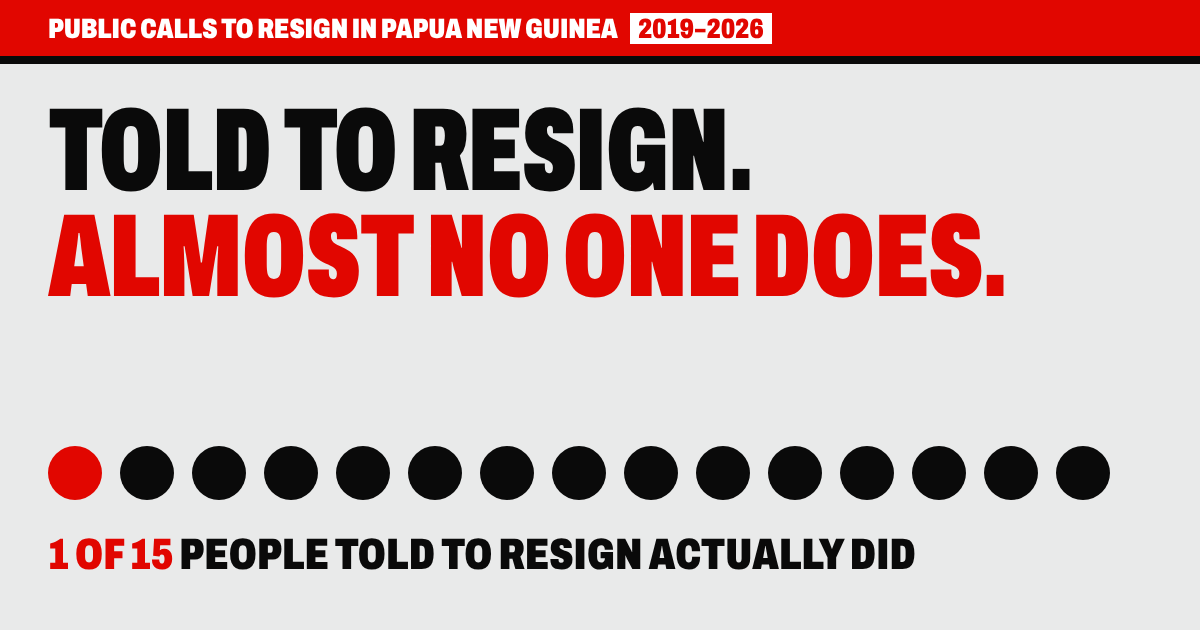
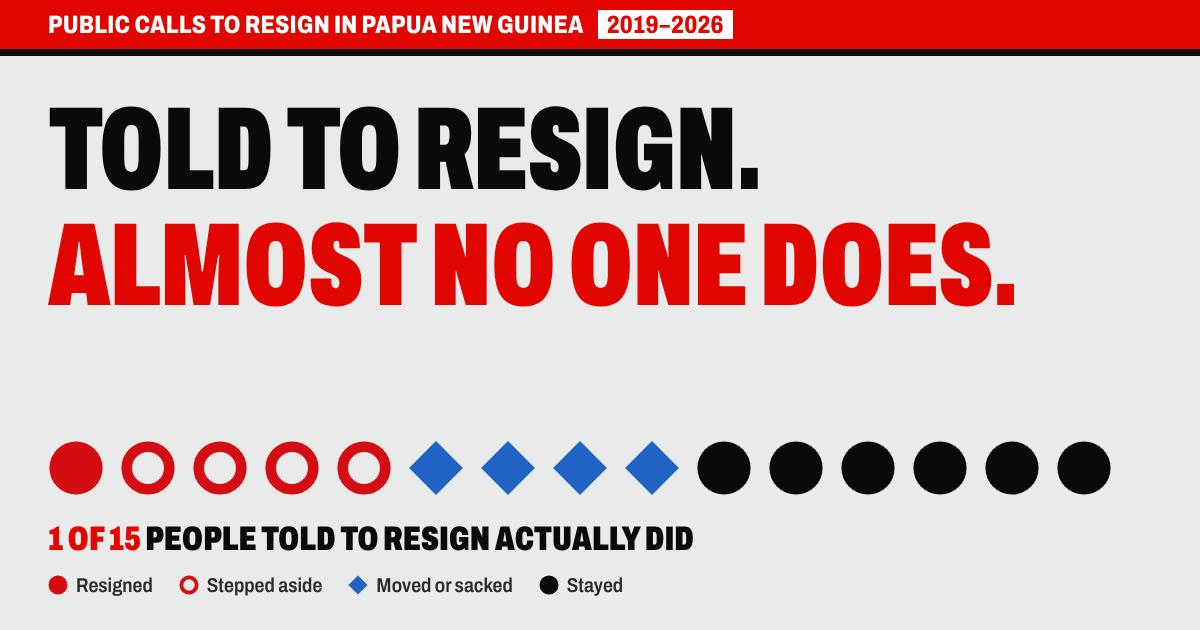
Pre-launch fixes: CSV, share card, phone charts, Sonk source (#12)
- Regenerate the CSV with proper quoting (row 1 had an unquoted comma)
- Source Sonk's sacking to the Post-Courier (letter of 28 Nov 2025, reported 24 Dec 2025); add outcome source for the 2019 Sonk call; note call 11's outcome evidence is from March 2025
- Share card uses the page's marks: 1 resigned, 4 stepped aside, 4 moved, 6 stayed
- Collapse the pre-launch corrections log to 'First published 4 November 2026'
- Remove the GitHub issue link and the planning comment in the CSS
- Phone: drop call dates from the speed chart when rows are tight, give the pinned timeline more room
- Cut repeats of the thesis line, rewrite the fragment chart label, use 'Sep', drop repeated role/type in the explorer
- List every outlet the data cites; explain why the 'Where are they now' groups differ from the story's counts

diff --git a/index.html b/index.html
@@ -12,11 +12,11 @@
 <meta property="og:image" content="https://n30dyn4m1c.github.io/png-calls-to-resign/assets/share-card-resign.png">
 <meta property="og:image:width" content="1200">
 <meta property="og:image:height" content="630">
-<meta property="og:image:alt" content="Told to resign: 15 dots, one red. 1 of 15 people told to resign in PNG since 2019 actually did.">
+<meta property="og:image:alt" content="Told to resign: 15 marks, one for each person. One resigned, four stepped aside, four were moved or sacked and six stayed.">
 <meta name="twitter:card" content="summary_large_image">
 <meta name="twitter:title" content="Told to Resign. Almost No One Does.">
 <meta name="twitter:description" content="Since 2019, 15 of Papua New Guinea's top office-holders, including two prime ministers and eight ministers, have been publicly told to resign. One did. We tracked all 27 calls.">
-<meta property="article:published_time" content="2026-11-03">
+<meta property="article:published_time" content="2026-11-04">
 <title>Told to Resign. Almost No One Does.</title>
 <link rel="icon" href="favicon.ico" sizes="48x48">
 <link rel="icon" href="favicon.svg" type="image/svg+xml">
@@ -30,8 +30,6 @@
 <link rel="preload" as="image" href="assets/parliament-600.webp" type="image/webp" media="(max-width:860px)">
 <link rel="stylesheet" href="https://fonts.googleapis.com/css2?family=Archivo:wdth,wght@62..100,400..900&family=PT+Serif:ital,wght@0,400;0,700;1,400&display=swap">
 <style>
-/* Layout: a newspaper special report. Masthead and front-page splash, then a pinned chart set like a front-page graphic while story "columns" scroll past, then the full record as a results table.
-   Deliberately one look (newsprint), so there are no light/dark variants. */
 :root{
   color-scheme:light;
   --bg:#e9eaea; --surface:#f7f7f5; --raise:#ffffff; --ink:#0a0a0a; --ink-2:#2b2b2b; --ink-3:#5c5f61; --rule:#0a0a0a; --hair:#b9bcbd; --grid:#d9dbdb; --dim:#b3b5b6;
@@ -172,12 +170,16 @@ h2{font-family:var(--f-display);font-weight:900;font-stretch:70%;font-size:clamp
   .plate{max-width:none;box-shadow:6px 6px 0 var(--ink)}
   .plate img{aspect-ratio:16/9;object-position:50% 30%}
   .scrolly{display:block}
-  .graphic{height:60vh;height:60dvh;top:env(safe-area-inset-top,0px);padding-top:8px;background:var(--bg);z-index:1}
+  .graphic{height:66vh;height:66dvh;top:env(safe-area-inset-top,0px);padding-top:8px;background:var(--bg);z-index:1}
   .panel{max-height:none}
   .steps{position:relative;z-index:2;padding-block:0 20vh}
   .step{min-height:0;align-items:flex-start;padding-bottom:70vh}
   .step .card{max-width:none;width:calc(100% - 6px);box-shadow:6px 6px 0 var(--ink);border:2px solid var(--rule)}
   .big{font-size:76px}
+  .panel-head{gap:4px 12px;padding-bottom:6px}
+  .counter b{font-size:28px}
+  .legend{font-size:10.5px;gap:2px 10px}
+  .lane-label{font-size:11.5px}
 }
 .layer{position:absolute;inset:0;transition:opacity .5s ease}
 .layer[data-off="1"]{opacity:0;pointer-events:none}
@@ -219,7 +221,7 @@ details.all summary{display:inline-block;cursor:pointer;font-family:var(--f-disp
 
 <div class="masthead gutter"><div class="inner">
   <div class="flagname">Public Calls to Resign in Papua New Guinea, <span>2019–2026</span></div>
-  <div class="dateline">Published 3 November 2026 · Special report</div>
+  <div class="dateline">Published 4 November 2026 · Special report</div>
 </div></div>
 <div class="latest gutter" role="note"><div class="inner"><b>Latest</b><span>3 November 2026: UPNG Chancellor Sir Robert Igara stepped aside, a day after the Prime Minister told him to resign. <a href="https://www.postcourier.com.pg/upng-chancellor-steps-aside-as-council-moves-to-address-leadership-crisis/" target="_blank" rel="noopener">Post-Courier</a></span></div></div>
 <header class="hero gutter"><div class="inner">
@@ -320,7 +322,7 @@ details.all summary{display:inline-block;cursor:pointer;font-family:var(--f-disp
       <h3>PNG's leaders rarely resign</h3>
       <div class="big">1 of 15<small> people</small></div>
       <p>One person resigned. Four stepped aside for a while. Four more were moved or sacked by the Prime Minister or a board. The other six stayed in the job they were told to leave.</p>
-      <p>Over seven years and 27 calls, one person resigned. In PNG, high-level figures rarely resign when they are called out.</p>
+      <p>Over seven years and 27 calls, one person resigned.</p>
       <p class="tpi-end" lang="tpi">Ol i tokim 15 lida long risain. Wanpela tasol i risain.</p>
       <p class="tpi-gloss">In Tok Pisin: they told 15 leaders to resign. Only one did.</p>
     </div></section>
@@ -333,7 +335,7 @@ details.all summary{display:inline-block;cursor:pointer;font-family:var(--f-disp
     <figcaption><span class="kicker">The record</span><strong id="break-h">One resignation in seven years.</strong> After 16 of the 27 calls, the person stayed. Illustration generated with AI.</figcaption>
   </figure>
   <div class="share" aria-labelledby="share-h">
-    <p class="pull">PNG's top office-holders rarely resign when called out. Since 2019, 15 have been publicly told to. One did.</p>
+    <p class="pull">Since 2019, 15 of PNG's top office-holders have been publicly told to resign. One did.</p>
     <p class="share-h" id="share-h">Share this story</p>
     <div class="share-row">
       <a class="sbtn" id="sh-wa" target="_blank" rel="noopener">WhatsApp</a>
@@ -347,7 +349,7 @@ details.all summary{display:inline-block;cursor:pointer;font-family:var(--f-disp
 <main class="gutter"><div class="inner explore">
   <section class="now" aria-labelledby="now-h">
     <h2 id="now-h">Where are they now?</h2>
-    <p class="sub">All 15 people who were told to resign, and the latest we could find on each, as of 3 November 2026.</p>
+    <p class="sub">All 15 people who were told to resign, and the latest we could find on each, as of 4 November 2026. The groups show where people are now, so they differ a little from the story's counts: O'Neill's resignation sits under Out of that job, and Igara's step-aside is On hold.</p>
     <div class="now-grid">
       <div class="now-col same"><h3>Stayed <span>6</span></h3><ul>
         <li><b>James Marape</b><span>Still Prime Minister, after six calls.</span></li>
@@ -395,7 +397,7 @@ details.all summary{display:inline-block;cursor:pointer;font-family:var(--f-disp
   <section class="notes">
     <h2>How this was put together</h2>
     <ul>
-      <li>Sources: The National, Post-Courier, PNG Today, OnePNG, EMTV, NBC PNG, The PNG Bulletin, PNG Haus Bung, RNZ Pacific, ABC, AP and PINA, searched in November 2026.</li>
+      <li>Sources: The National, Post-Courier, PNG Today, OnePNG, EMTV, NBC PNG, The PNG Bulletin, PNG Haus Bung, Loop PNG, the Prime Minister's Office, RNZ Pacific, Asia Pacific Report, ABC, AP, Al Jazeera, The Guardian and PINA, searched in November 2026.</li>
       <li>A "call" is a named public figure or organisation publicly asking a named office-holder to resign, step down, step aside, be sacked or have their appointment revoked. Joint statements naming two targets count once per target. When several people make the same demand in one report, we count the most senior caller once.</li>
       <li>In the data, callers are tagged by their side at the time of the call, and reasons as personal conduct (the person's own alleged words or actions) or politics or performance. That split is our judgement, and some calls, such as those after the January 2024 riots, could fit either.</li>
       <li>"Resigned" means the person gave up the office for good. "Stepped aside" means a temporary handover of the job, which can be reversed; we count it separately. "Moved or sacked" means the person did not quit but lost the post when the PM, Cabinet or a board sacked or reshuffled them. "Left" covers all three.</li>
@@ -405,10 +407,10 @@ details.all summary{display:inline-block;cursor:pointer;font-family:var(--f-disp
       <li>A step-aside, sacking or reshuffle that followed a call may have had other causes. We record the sequence, not the cause.</li>
       <li>This is not a complete record. Many calls in print and on radio never reach online archives, so treat counts as a floor. Rainbo Paita's outcome rests on finding no report that he left. David Manning's suspension in January 2024 is noted but not counted, because it did not follow a call in this record.</li>
     </ul>
-    <p class="credit">Data as of 3 November 2026 · 27 calls, 15 people · <a href="data/png-resignation-calls.csv" download>Download the data (CSV)</a></p>
+    <p class="credit">Data as of 4 November 2026 · 27 calls, 15 people · <a href="data/png-resignation-calls.csv" download>Download the data (CSV)</a></p>
     <noscript><p>The charts and table need JavaScript. The full dataset is in the <a href="data/png-resignation-calls.csv">CSV file</a>.</p></noscript>
-    <div class="updates">Last updated 3 November 2026.<ul><li>3 November 2026: Added an English gloss for the Tok Pisin line, a note that the timing chart shows sequence rather than cause, and a flag on Rainbo Paita's record. Made clear, on the timeline, in the notes and in the data, that O'Neill's two marks are two calls and one resignation.</li><li>3 November 2026: Replaced a May 2021 call on David Manning, which asked only that he give up his pandemic role, with Opposition Leader Douglas Tomuriesa's May 2024 call for him to step down. Noted Manning's suspension in January 2024. Corrected Billy Joseph's record (he kept his other ministries) and counted days to leaving from the latest call for everyone. Changed the headline from "Told to Quit" to "Told to Resign", because nine of the 15 did leave their post in some way.</li><li>3 November 2026: Sir Robert Igara stepped aside a day after the Prime Minister's call (<a href="https://www.postcourier.com.pg/upng-chancellor-steps-aside-as-council-moves-to-address-leadership-crisis/" target="_blank" rel="noopener">Post-Courier</a>).</li><li>3 November 2026: First published.</li></ul></div>
-    <p class="fix" id="corrections">Missing a call, or spotted an error? <span id="fixlink">Email <a href="mailto:nmalesa@upng.ac.pg?subject=Correction%3A%20Told%20to%20Resign">nmalesa@upng.ac.pg</a> with a link to the news report, and we will add it. You can also <a href="https://github.com/n30dyn4m1c/png-calls-to-resign/issues/new" target="_blank" rel="noopener">open an issue on GitHub</a>.</span></p>
+    <div class="updates">Last updated 4 November 2026.<ul><li>4 November 2026: First published.</li></ul></div>
+    <p class="fix" id="corrections">Missing a call, or spotted an error? <span id="fixlink">Email <a href="mailto:nmalesa@upng.ac.pg?subject=Correction%3A%20Told%20to%20Resign">nmalesa@upng.ac.pg</a> with a link to the news report, and we will add it.</span></p>
   </section>
 </div></main>
 
@@ -606,7 +608,7 @@ const DATA = [
   "reason": "Rising violent crime in Enga, East New Britain and NCD; warned of a failed state. Also asked Cabinet to resign.",
   "reasonType": "Politics or performance",
   "outcome": "stayed",
-  "outcomeText": "Stayed in office.",
+  "outcomeText": "Stayed in office. In March 2025 he rejected a further call from Nomane, as reported here.",
   "src": "https://news.pngfacts.com/2024/10/calls-for-resignation-png-deputy.html",
   "srcName": "PNG Today",
   "osrc": "https://www.nbc.com.pg/post/18146/marape-rejects-resignation-call-by-nomane-amidst-law-order-chaos-in-png",
@@ -866,11 +868,11 @@ const DATA = [
   "reason": "Called for the KPHL board and management, including Managing Director Wapu Sonk, to be sacked over spending at the state oil and gas company.",
   "reasonType": "Politics or performance",
   "outcome": "stayed",
-  "outcomeText": "Stayed as KPHL Managing Director until 2025.",
+  "outcomeText": "Stayed as KPHL Managing Director until the board terminated him in November 2025.",
   "src": "https://www.thenational.com.pg/pruaitch-calls-for-sacking-of-kphl-board-management/",
   "srcName": "The National",
-  "osrc": "",
-  "osrcName": "",
+  "osrc": "https://www.postcourier.com.pg/sonk-sacked-from-kphl/",
+  "osrcName": "Post-Courier",
   "outcomeDate": "",
   "daysToOutcome": ""
  },
@@ -886,11 +888,11 @@ const DATA = [
   "reason": "Corruption allegations over KPHL spending, first reported in Australian media. Sonk denied them and said he would clear his name. He was already suspended by the board, and in July 2025 had left the PNG NRL franchise board at the Prime Minister's request.",
   "reasonType": "Personal conduct",
   "outcome": "moved",
-  "outcomeText": "Terminated by the KPHL board on 28 November 2025.",
+  "outcomeText": "Terminated by the KPHL board in a letter dated 28 November 2025. The Post-Courier reported the sacking on 24 December 2025.",
   "src": "https://www.pmnec.gov.pg/?p=3618",
   "srcName": "PM's Office",
-  "osrc": "https://ground.news/article/sonk-sacked-from-kphl",
-  "osrcName": "Ground News",
+  "osrc": "https://www.postcourier.com.pg/sonk-sacked-from-kphl/",
+  "osrcName": "Post-Courier",
   "outcomeDate": "2025-11-28",
   "daysToOutcome": 69
  },
@@ -967,7 +969,9 @@ const isExit=d=>d.outcome==="resigned"||d.outcome==="aside"||d.outcome==="moved"
 const TTYPES=["Prime Minister","Minister","MP","Public servant","SOE or statutory head"];
 const TLAB={"Prime Minister":"Prime Minister","Minister":"Ministers","MP":"MPs","Public servant":"Public servants","SOE or statutory head":"SOE and statutory heads"};
 const col=k=>`var(${OUT[k].v})`;
-const fmt=d=>new Date(d+"T00:00:00Z").toLocaleDateString("en-GB",{day:"numeric",month:"short",year:"numeric",timeZone:"UTC"});
+const withType=(r,t)=>r.toLowerCase().includes(t.toLowerCase())?"":` (${esc(t)})`;
+const MON=["Jan","Feb","Mar","Apr","May","Jun","Jul","Aug","Sep","Oct","Nov","Dec"];
+const fmt=d=>{const [y,m,dd]=d.split("-");return `${+dd} ${MON[+m-1]} ${y}`;};
 const esc=s=>String(s).replace(/[&<>"]/g,c=>({"&":"&amp;","<":"&lt;",">":"&gt;",'"':"&quot;"}[c]));
 function glyph(k,size,c){
   const r=size/2, fillc=c||col(k);
@@ -1038,11 +1042,11 @@ function barsSvg(W,H){
   let s=`<svg viewBox="0 0 ${W} ${H}" role="img" aria-label="Days from the call to leaving, for the ${rows.length} people who left">`;
   [0,14,28,42,56,70].filter(v=>!narrow||v%28===0).forEach(v=>{s+=`<line x1="${x(v)}" x2="${x(v)}" y1="${T-8}" y2="${T+rows.length*rowH}" stroke="var(--grid)"/><text class="tick" x="${x(v)}" y="${T-14}" text-anchor="middle">${v===0?"call":v+" days"}</text>`;});
   rows.forEach((d,i)=>{const y=T+i*rowH, h=Math.max(8,Math.min(16,rowH*.42)), cy=y+rowH/2;
-    s+=`<text class="bar-label" x="0" y="${cy-1}">${esc(narrow?shortName(d.target):d.target)}</text><text class="lane-role" x="0" y="${cy+12}">${fmt(d.date).replace(/^\d+ /,"")}</text>`;
+    const two=rowH>=32; s+=`<text class="bar-label" x="0" y="${two?cy-1:cy+4}">${esc(narrow?shortName(d.target):d.target)}</text>${two?`<text class="lane-role" x="0" y="${cy+12}">${fmt(d.date).replace(/^\d+ /,"")}</text>`:""}`;
     s+=`<rect x="${x(0)}" y="${cy-h/2}" width="${Math.max(4,x(d.daysToOutcome)-x(0))}" height="${h}" rx="2" fill="${col(d.outcome)}"/>`;
     s+=`<text class="bar-val" x="${x(d.daysToOutcome)+8}" y="${cy+4}">${d.daysToOutcome} day${d.daysToOutcome>1?"s":""}</text>`;});
   const yb=T+rows.length*rowH+26;
-  s+=`<text class="ann" x="${L}" y="${yb}">The other ${DATA.filter(d=>d.outcome==="stayed").length} calls: they stayed</text>`;
+  s+=`<text class="ann" x="${narrow?0:L}" y="${yb}">After the other ${DATA.filter(d=>d.outcome==="stayed").length} calls, the person stayed</text>`;
   return s+"</svg>";
 }
 function drawStory(){
@@ -1090,7 +1094,7 @@ let selected=23;
 function showDetail(d){
   detail.style.borderLeftColor=col(d.outcome);
   detail.innerHTML=`<div class="meta">${fmt(d.date)}</div><div class="who">${esc(d.caller)} → ${esc(d.target)}</div>
-   <div class="meta">${esc(d.callerRole)} (${esc(d.callerType)}) · told the ${esc(d.targetRole)} (${esc(d.targetType)}) to go</div>
+   <div class="meta">${esc(d.callerRole)}${withType(d.callerRole,d.callerType)} · told the ${esc(d.targetRole)}${withType(d.targetRole,d.targetType)} to go</div>
    <p>Why: ${esc(d.reason)}</p>
    <p><span class="chip">${legendSvg(d.outcome)}${OUT[d.outcome].label}</span> ${esc(d.outcomeText)}</p>
    <p class="meta"><a href="${d.src}" target="_blank" rel="noopener">${esc(d.srcName)}</a>${d.osrc&&d.osrc!==d.src?` · outcome: <a href="${d.osrc}" target="_blank" rel="noopener">${esc(d.osrcName)}</a>`:""}</p>`;
